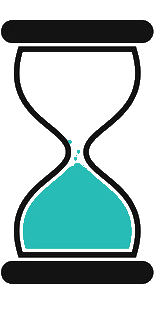
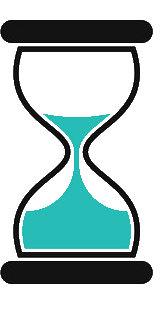
Phases have been somewhat implemented.

diff --git a/src/main/java/dk/dtu/compute/se/pisd/roborally/view/BoardView.java b/src/main/java/dk/dtu/compute/se/pisd/roborally/view/BoardView.java
@@ -27,6 +27,7 @@ import dk.dtu.compute.se.pisd.roborally.model.Board;
 import dk.dtu.compute.se.pisd.roborally.model.Item;
 import dk.dtu.compute.se.pisd.roborally.model.Phase;
 import dk.dtu.compute.se.pisd.roborally.model.Space;
+import javafx.application.Platform;
 import javafx.event.EventHandler;
 import javafx.scene.control.Button;
 import javafx.scene.control.Label;
@@ -41,6 +42,7 @@ import javafx.scene.paint.LinearGradient;
 import javafx.scene.paint.Stop;
 import javafx.scene.shape.Rectangle;
 import org.jetbrains.annotations.NotNull;
+
 
 import java.io.InputStream;
 
@@ -69,6 +71,8 @@ public class BoardView extends VBox implements ViewObserver {
     GridPane upgradeShop;
     StackPane stackPane;
     Rectangle mask;
+    Button timerButton;
+    Button upgradeShopButton;
 
     private SpaceEventHandler spaceEventHandler;
     private ArrowKeyEventHandler arrowKeyEventHandler;
@@ -87,7 +91,6 @@ public class BoardView extends VBox implements ViewObserver {
         statusLabel = new Label("<no status>");
         ImageView imageView = new ImageView(new Image("checkpoint.png"));
 
-        timerSecondsCount = 0;
         timers = new Image[7];
 
         timers[0] = new Image("hourglass0.png");
@@ -99,10 +102,10 @@ public class BoardView extends VBox implements ViewObserver {
         timers[6] = new Image("hourglass6.png");
         timerView = new ImageView(timers[0]);
 
-        Button timerButton = new Button("Start timer");
-        timerButton.setOnAction( e -> board.startTimer());
+        timerButton = new Button("Start timer");
+        timerButton.setOnAction( e -> gameController.startTimer());
 
-        Button upgradeShopButton = new Button("Upgrade Shop");
+        upgradeShopButton = new Button("Upgrade Shop");
         upgradeShopButton.setOnAction( e -> displayUpgradeShop());
 
         GridPane timerGridPane = new GridPane();
@@ -170,6 +173,30 @@ public class BoardView extends VBox implements ViewObserver {
         update(board);
     }
 
+    public void InterationRestrictor(Phase phase) {
+        switch (phase) {
+            case INITIALISATION -> {
+                timerButton.setDisable(true);
+                upgradeShopButton.setDisable(true);
+            }
+            case UPGRADE -> {
+                timerButton.setDisable(true);
+                upgradeShopButton.setDisable(false);
+            }
+            case PROGRAMMING -> {
+                timerButton.setDisable(false);
+                upgradeShopButton.setDisable(true);
+            }
+            case ACTIVATION -> {
+                timerButton.setDisable(true);
+                upgradeShopButton.setDisable(true);
+            }
+            default -> {
+                System.out.println("Something went wrong: Phase not defined");
+            }
+        }
+    }
+
     private void displayUpgradeShop() {
         System.out.println("upgrade shop is no longer displayed");
         if (upgradeShop.isVisible()) {
@@ -182,9 +209,12 @@ public class BoardView extends VBox implements ViewObserver {
     }
 
     private void nextTimer() {
+
         if (board.getTimerIsRunning()) {
-            nextTimerInt += 1;
-            if (timers.length < nextTimerInt - 1) {
+            if (board.getTimerSecondsCount() % 5 == 0) {
+                nextTimerInt += 1;
+            }
+            if (timers.length - 1 < nextTimerInt) {
                 nextTimerInt = 0;
             }
             this.timerView.setImage(timers[nextTimerInt]);
@@ -201,6 +231,7 @@ public class BoardView extends VBox implements ViewObserver {
         System.out.println("Board update");
         if (subject == board) {
             Phase phase = board.getPhase();
+            InterationRestrictor(phase);
             statusLabel.setText(board.getStatusMessage());
             nextTimer();
         }

diff --git a/src/main/java/dk/dtu/compute/se/pisd/roborally/controller/GameController.java b/src/main/java/dk/dtu/compute/se/pisd/roborally/controller/GameController.java
@@ -29,12 +29,15 @@ import dk.dtu.compute.se.pisd.roborally.model.*;
 import dk.dtu.compute.se.pisd.roborally.model.card.Card;
 import dk.dtu.compute.se.pisd.roborally.model.card.DamageCard;
 import dk.dtu.compute.se.pisd.roborally.model.card.ProgrammingCard;
+import javafx.application.Platform;
 import javafx.fxml.FXMLLoader;
 import javafx.scene.layout.Pane;
 import org.jetbrains.annotations.NotNull;
 
 import java.io.IOException;
 import java.util.*;
+
+import static dk.dtu.compute.se.pisd.roborally.model.Phase.INITIALISATION;
 import static dk.dtu.compute.se.pisd.roborally.model.Phase.PROGRAMMING;
 
 //import java.util.*;
@@ -63,6 +66,8 @@ public class GameController {
     private Player localPlayer;
     boolean MoreAdvancedGame = true;
     boolean firstRound;
+
+    private Timer timer;
 
 
     public GameController(RoboRally roboRally, ClientController clientController, Board board, boolean online, Player localPlayer) {
@@ -295,11 +300,33 @@ public class GameController {
         board.setPhase(phase);
     }
 
+    public void startTimer() {
+        timer = new Timer();
+        board.setTimerIsRunning(true);
+
+        timer.scheduleAtFixedRate(new TimerTask() {
+            @Override
+            public void run() {
+                board.setTimerSecondsCount(board.getTimerSecondsCount() + 1);
+                System.out.println("timer: " + board.getTimerSecondsCount());
+                if (board.getTimerSecondsCount() >= 30) {
+                    timer.cancel();
+                    timer.purge();
+                    board.setTimerIsRunning(false);
+                    board.setTimerSecondsCount(0);
+                    System.out.println("Time to fire event!");
+                }
+            }
+        }, 0, 1000);
+        board.setTimerSecondsCount(0);
+    }
+
     /**
      * 'Used in the single player version only, afaik' -Anton
      */
     public void finishProgrammingPhase() {
         setPhase(Phase.ACTIVATION);
+
 
         //TODO: Check for spam and trojan cards,and replaces the card somehow?
         //TODO: Very much WIP

diff --git a/src/main/java/dk/dtu/compute/se/pisd/roborally/model/Board.java b/src/main/java/dk/dtu/compute/se/pisd/roborally/model/Board.java
@@ -23,6 +23,7 @@ package dk.dtu.compute.se.pisd.roborally.model;
 
 import dk.dtu.compute.se.pisd.designpatterns.observer.Subject;
 import dk.dtu.compute.se.pisd.roborally.controller.CardController;
+import javafx.application.Platform;
 import org.jetbrains.annotations.NotNull;
 
 import java.util.*;
@@ -57,7 +58,6 @@ public class Board extends Subject {
     private boolean stepMode;
 
     CardController cardController = CardController.getInstance();
-    private Timer timer;
     private int timerSecondsCount;
     private boolean timerIsRunning;
     private Space priorityAntennaSpace;
@@ -271,35 +271,18 @@ public class Board extends Subject {
 
 
 
-
-    // TODO: I forgot why this is places here??? (but it works though)
-    public void startTimer() {
-        timer = new Timer();
-        timerIsRunning = true;
-        notifyChange();
-
-        timer.scheduleAtFixedRate(new TimerTask() {
-            @Override
-            public void run() {
-                timerSecondsCount += 1;
-                System.out.println("timer: " + timerSecondsCount);
-                if (timerSecondsCount % 6 == 0) {
-                    notifyChange();
-                }
-                if (timerSecondsCount >= 30) {
-                    timer.cancel();
-                    timer.purge();
-                    timerIsRunning = false;
-                    notifyChange();
-                    timerSecondsCount = 0;
-                    System.out.println("Time to fire event!");
-                }
-            }
-        }, 0, 1000);
-    }
-
     public int getTimerSecondsCount() {
         return this.timerSecondsCount;
+    }
+
+    public void setTimerSecondsCount(int seconds) {
+        Platform.runLater(this::notifyChange);
+
+        this.timerSecondsCount = seconds;
+    }
+
+    public void setTimerIsRunning(boolean status) {
+        this.timerIsRunning = status;
     }
 
     public boolean getTimerIsRunning() {

diff --git a/src/main/java/dk/dtu/compute/se/pisd/roborally/view/PlayerView.java b/src/main/java/dk/dtu/compute/se/pisd/roborally/view/PlayerView.java
@@ -164,16 +164,20 @@ public class PlayerView extends Tab implements ViewObserver {
                 }
             }
 
-            if (player.board.getPhase() != Phase.PLAYER_INTERACTION) {
+            if (player.board.getPhase() != Phase.PLAYER_INTERACTION) { // We never use PLAYER_INTERACTION (always true)
                 if (!programPane.getChildren().contains(buttonPanel)) {
                     programPane.getChildren().remove(playerInteractionPanel);
                     programPane.add(buttonPanel, Player.NO_REGISTERS, 0);
                 }
                 switch (player.board.getPhase()) {
                     case INITIALISATION:
+                        finishButton.setDisable(true);
+                        executeButton.setDisable(true);
+                        stepButton.setDisable(true);
+                        break;
+
+                    case UPGRADE:
                         finishButton.setDisable(false);
-                        // XXX just to make sure that there is a way for the player to get
-                        //     from the initialization phase to the programming phase somehow!
                         executeButton.setDisable(false);
                         stepButton.setDisable(false);
                         break;
@@ -185,9 +189,9 @@ public class PlayerView extends Tab implements ViewObserver {
                         break;
 
                     case ACTIVATION:
-                        finishButton.setDisable(false);
-                        executeButton.setDisable(false);
-                        stepButton.setDisable(false);
+                        finishButton.setDisable(true);
+                        executeButton.setDisable(true);
+                        stepButton.setDisable(true);
                         break;
 
                     default:

diff --git a/src/main/java/dk/dtu/compute/se/pisd/roborally/view/PlayersView.java b/src/main/java/dk/dtu/compute/se/pisd/roborally/view/PlayersView.java
@@ -24,6 +24,7 @@ package dk.dtu.compute.se.pisd.roborally.view;
 import dk.dtu.compute.se.pisd.designpatterns.observer.Subject;
 import dk.dtu.compute.se.pisd.roborally.controller.GameController;
 import dk.dtu.compute.se.pisd.roborally.model.Board;
+import dk.dtu.compute.se.pisd.roborally.model.Phase;
 import dk.dtu.compute.se.pisd.roborally.model.Player;
 import javafx.scene.control.TabPane;
 
@@ -56,8 +57,10 @@ public class PlayersView extends TabPane implements ViewObserver {
     @Override
     public void updateView(Subject subject) {
         if (subject == board) {
-            Player current = board.getCurrentPlayer();
-            this.getSelectionModel().select(board.getPlayerNumber(current));
+            if (board.getPhase() == Phase.ACTIVATION) {
+                Player current = board.getCurrentPlayer();
+                this.getSelectionModel().select(board.getPlayerNumber(current));
+            }
 
         }
     }

diff --git a/src/main/java/dk/dtu/compute/se/pisd/roborally/model/Phase.java b/src/main/java/dk/dtu/compute/se/pisd/roborally/model/Phase.java
@@ -28,5 +28,5 @@ package dk.dtu.compute.se.pisd.roborally.model;
  *
  */
 public enum Phase {
-    INITIALISATION, PROGRAMMING, ACTIVATION, PLAYER_INTERACTION
+    INITIALISATION, PROGRAMMING, ACTIVATION, PLAYER_INTERACTION, UPGRADE, SYNCRONIZATION
 }
